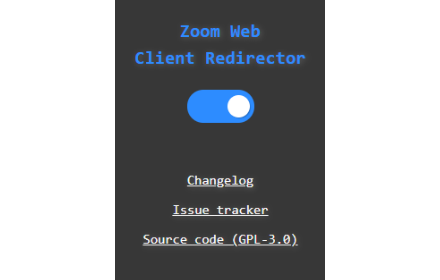
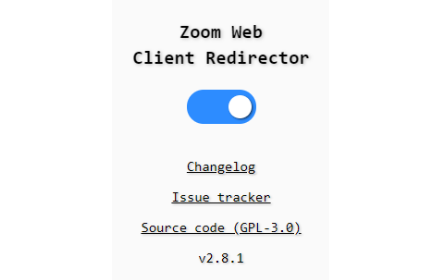
add extension version inside popup menu, improve dashboard, use of getManifest for href & innerHTML

diff --git a/src/js/toggle.js b/src/js/toggle.js
@@ -1,7 +1,7 @@
 var storage = chrome.storage.sync;
 if (!storage) storage = chrome.storage.local;
 
-// Change Icon, Toggle and localStorage to true/on.
+// Change Icon, Toggle and chrome.storage to true/on.
 function setRedirectOn(){
   storage.set({'toggle': "true"});
   document.getElementById('toggle').setAttribute("checked","");
@@ -17,7 +17,7 @@ function setRedirectOn(){
   });
 };
 
-// Change Icon, Toggle and localStorage to false/off.
+// Change Icon, Toggle and chrome.storage to false/off.
 function setRedirectOff(){
   storage.set({'toggle': "false"});
   document.getElementById('toggle').removeAttribute("checked");
@@ -33,7 +33,7 @@ function setRedirectOff(){
   });
 };
 
-// Set redirect option on if toggle is not set
+// If toggle is not set, it creates it and load icon set.
 chrome.storage.sync.get('toggle', function(items) {
   var toggle = items.toggle;
   if (typeof toggle === "undefined") {
@@ -41,7 +41,7 @@ chrome.storage.sync.get('toggle', function(items) {
   }
 });
 
-// When the popup page load it checks the stored option and change toggle and icon set.
+// On dashboard load it checks chrome.storage toggle value and set the switch button and icon set accordingly.
 document.body.onload = function() {
   storage.get("toggle", function(items) {
     //console.log('Load to: ' + items.toggle);
@@ -53,7 +53,7 @@ document.body.onload = function() {
   });
 }
 
-// Change localStorage "toggleStatus" value and extension icon when checkbox change state.
+// Change chrome.storage "toggle" value and extension icon when checkbox change state.
 function saveOption() {
   if (document.getElementById('toggle').checked){
     setRedirectOn();
@@ -66,7 +66,7 @@ function saveOption() {
   });
 };
 
-// If toggle change state it calls changeElem function.
+// If toggle change state it calls saveOption function.
 document.addEventListener('DOMContentLoaded', function () {
   document.querySelector('#toggle').addEventListener('change', saveOption);
 });

diff --git a/src/css/style.css b/src/css/style.css
@@ -4,11 +4,9 @@
 
 /* Popup menu main stylesheet */
 body {
-  text-shadow: 1px 1px 5px rgba(128, 128, 128, 0.60);
-  /*border: 8px solid rgba(0, 0, 0, 0.0);*/
+  text-shadow: var(--text-shadow-name);
   padding-left: 10px;
   padding-right: 10px;
-  padding-bottom: 10px;
   overflow: hidden;
   white-space: nowrap;
   text-overflow:ellipsis;
@@ -17,27 +15,34 @@ body {
   background-color: var(--background-color);
 }
 
-/* Extension name stylesheet */
+/* Title stylesheet */
 h3  {
-  line-height: 1.5em;
+  line-height: 1.4em;
   text-align: inherit;
 }
 
 /* Link stylesheet */
 p {
+  text-shadow: var(--text-shadow-footer) !important;
   text-align: center;
   font-size: 12px;
 }
+
 a {
   color: var(--color);
   background-color: var(--background-color);
 }
 
 .header {
-  color: #2d8cff;
+  color: var(--name-addon-color);
   text-align: center;
   font-style: normal;
   font-size: 14px;
+}
+
+#addon-version  {
+  color: var(--name-addon-color);
+  text-decoration: none;
 }
 
 /* Checkbox stylesheet */
@@ -58,18 +63,18 @@ a {
   width: 20px;
   height: 20px;
   border-radius:50%;
-  background-color: white;
+  background-color: var(--button-color);
   top: 4.8px;
   left: 5px;
   transition: all 0.25s;
   box-shadow: 1px 1px 1px rgba(128, 128, 128, 0.25);
 }
 .mycheckbox:checked + .switch::after {
+  box-shadow: var(--box-shadow);
   left : 36px;
-  box-shadow: 1px 1px 1px rgba(0, 0, 0, 0.25);
 }
 .mycheckbox:checked + .switch {
-  background-color: #2d8cff;
+  background-color: var(--icon-color-reference);
 }
 .mycheckbox {
   display : none;

diff --git a/src/html/popup.html b/src/html/popup.html
@@ -15,16 +15,19 @@
   </head>
   <body>
     <div class="header">
-      <h3>Zoom Web<br>Client Redirector</h3>
+      <script type="text/javascript" src="../js/getManifest.js"></script>
+
+      <h3 id="addon-name"></h3>
     </div>
-    <script type="text/javascript" src="../js/background.js"></script>
+    <script type="text/javascript" src="../js/toggle.js"></script>
     <input type="checkbox" id="toggle" class="mycheckbox" value="checked"/>
     <label for="toggle" class="switch"></label>
   </body>
   <footer>
-    <br><br>
-    <p><a href="https://github.com/EdoardoTosin/Zoom-Web-Client-Redirector/blob/main/CHANGELOG.md">Changelog</a></p>
-    <p><a href="https://github.com/EdoardoTosin/Zoom-Web-Client-Redirector/issues">Issue tracker</a></p>
-    <p><a href="https://github.com/EdoardoTosin/Zoom-Web-Client-Redirector">Source code (GPL-3.0)</a></p>
+    <br>
+    <p><a href="" id="changelog">Changelog</a></p>
+    <p><a href="" id="issue-tracker">Issue tracker</a></p>
+    <p><a href="" id="source-code">Source code (GPL-3.0)</a></p>
+    <p><a href="" id="addon-version"></a></p>
   </footer>
 </html>

diff --git a/src/js/getManifest.js b/src/js/getManifest.js
@@ -1,0 +1,17 @@
+var addonVersion = chrome.runtime.getManifest().version;
+var addonName = chrome.runtime.getManifest().name;
+var homePage = chrome.runtime.getManifest().homepage_url;
+
+// Load manifest data into popup.html when opened.
+document.addEventListener("DOMContentLoaded", function() {
+  //console.log(addonName + ' v' + addonVersion);
+  
+  // Load addon name
+  document.getElementById("addon-name").innerHTML = (addonName.substr(0,8) + '<br>' + addonName.substr(9,26));
+  // Load href links & version
+  document.getElementById("changelog").href = homePage + '/blob/main/CHANGELOG.md';
+  document.getElementById("issue-tracker").href = homePage + '/issues';
+  document.getElementById("source-code").href = homePage;
+  document.getElementById("addon-version").innerHTML = ('v' + addonVersion);
+  document.getElementById("addon-version").href = homePage + '/releases/tag/v' + addonVersion;
+});

diff --git a/src/css/dark.css b/src/css/dark.css
@@ -2,4 +2,10 @@
 :root {
   --color: rgb(250, 250, 250);
   --background-color: rgb(55, 55, 55);
+  --button-color: rgb(250, 250, 250);
+  --name-addon-color: rgb(45, 140, 255);
+  --icon-color-reference: rgb(45, 140, 255);
+  --text-shadow-name: 1px 1px 3px rgba(0, 0, 0, 0.75);
+  --text-shadow-footer: 1px 1px 2px rgba(0, 0, 0, 0.75);
+  --box-shadow: 1px 1px 2px rgba(0, 0, 0, 0.75);
 }

diff --git a/src/css/light.css b/src/css/light.css
@@ -2,4 +2,10 @@
 :root {
   --color: rgb(5, 5, 5);
   --background-color: rgb(250, 250, 250);
+  --button-color: rgb(255, 255, 255);
+  --name-addon-color: rgb(0, 0, 0);
+  --icon-color-reference: rgb(45, 140, 255);
+  --text-shadow-name: 1px 1px 3px rgba(0, 0, 0, 0.25);
+  --text-shadow-footer: 1px 1px 2px rgba(0, 0, 0, 0.25);
+  --box-shadow: 1px 1px 2px rgba(5, 5, 5, 0.75);
 }

diff --git a/src/js/redirect.js b/src/js/redirect.js
@@ -1,7 +1,7 @@
 var storage = chrome.storage.sync;
 if (!storage) storage = chrome.storage.local;
 
-// Replace */j/* on zoom domain with */wc/join/*
+// Replace */j/* in the url with */wc/join/*
 (function redirect(){
   storage.get("toggle", function(items) {
       //console.log(items.toggle);

diff --git a/README.md b/README.md
@@ -67,9 +67,28 @@ When opening the dashboard there is a toggle to enable/disable the extension to 
 
 ## Dashboard
 
-| ![Off](https://raw.githubusercontent.com/EdoardoTosin/Zoom-Web-Client-Redirector/main/docs/dashboard/off.png) | ![On](https://raw.githubusercontent.com/EdoardoTosin/Zoom-Web-Client-Redirector/main/docs/dashboard/on.png) |
-| :---: | :---: |
-| **Toggle Off** | **Toggle On (Default)** |
+<table>
+    <thead>
+        <tr>
+            <th colspan=2>Light Mode</th>
+            <th colspan=2>Dark Mode</th>
+        </tr>
+    </thead>
+    <tbody>
+        <tr align="center">
+            <td>Toggle Off</td>
+            <td>Toggle On<br>(Default)</td>
+            <td>Toggle Off</td>
+            <td>Toggle On<br>(Default)</td>
+        </tr>
+        <tr>
+          <td><img alt="Toggle Off - Light Mode" src="https://raw.githubusercontent.com/EdoardoTosin/Zoom-Web-Client-Redirector/main/docs/dashboard/off-light.png"></td>
+          <td><img alt="Toggle On - Light Mode" src="https://raw.githubusercontent.com/EdoardoTosin/Zoom-Web-Client-Redirector/main/docs/dashboard/on-light.png"></td>
+          <td><img alt="Toggle Off - Dark Mode" src="https://raw.githubusercontent.com/EdoardoTosin/Zoom-Web-Client-Redirector/main/docs/dashboard/off-dark.png"></td>
+          <td><img alt="Toggle On - Dark Mode" src="https://raw.githubusercontent.com/EdoardoTosin/Zoom-Web-Client-Redirector/main/docs/dashboard/on-dark.png"></td>
+        </tr>
+    </tbody>
+</table>
 
 ## Zoom page example
 

diff --git a/CHANGELOG.md b/CHANGELOG.md
@@ -4,6 +4,17 @@ All notable changes to this project will be documented in this file.
 The format is based on [Keep a Changelog](http://keepachangelog.com/)
 and this project adheres to [Semantic Versioning](http://semver.org/).
 
+## [2.8.1](https://github.com/EdoardoTosin/Zoom-Web-Client-Redirector/tree/v2.8.1) - 2021-06-08
+
+### Changed
+
+- Improved dashboard text readability.
+- Commented test code inside toggle.js and redirect.js.
+
+### Added
+
+- Extension version now present on top of the title, inside the dashboard.
+
 ## [2.8.0](https://github.com/EdoardoTosin/Zoom-Web-Client-Redirector/tree/v2.8.0) - 2021-05-26
 
 ### Fixed
